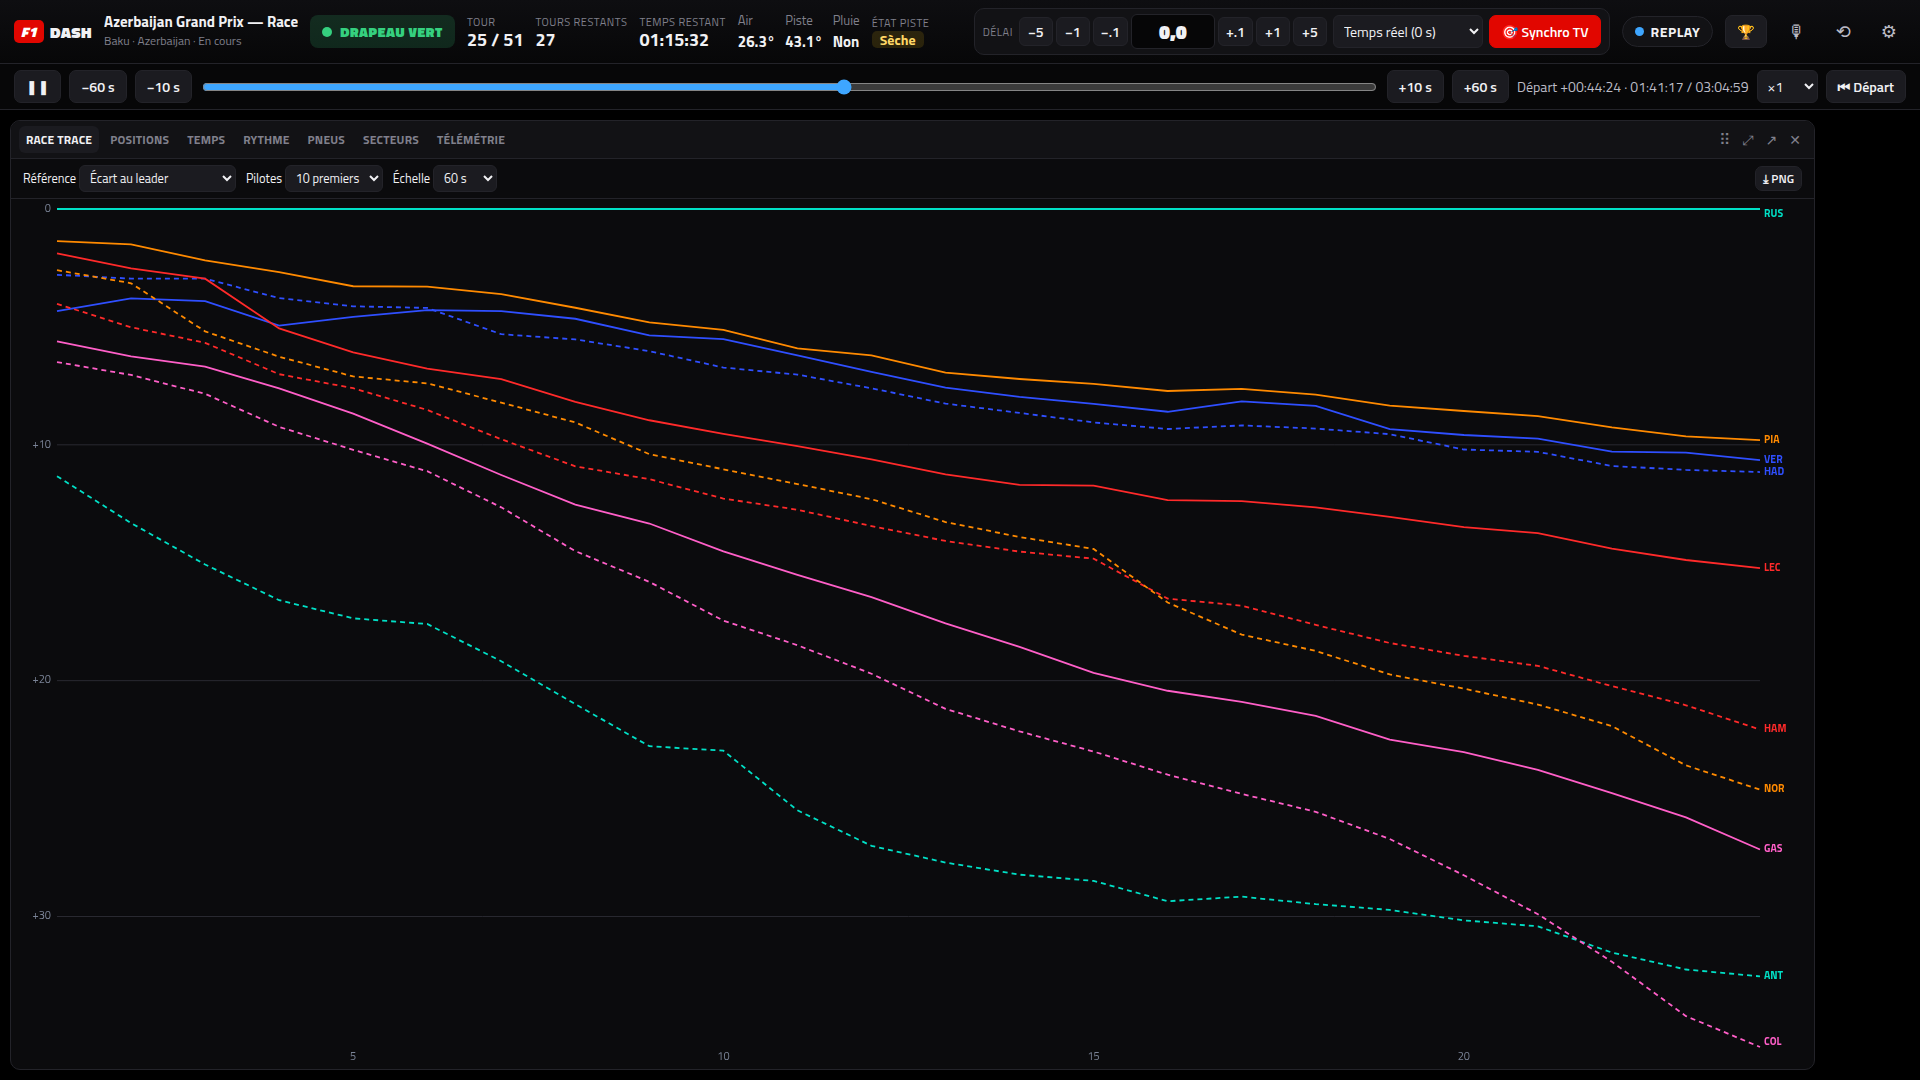
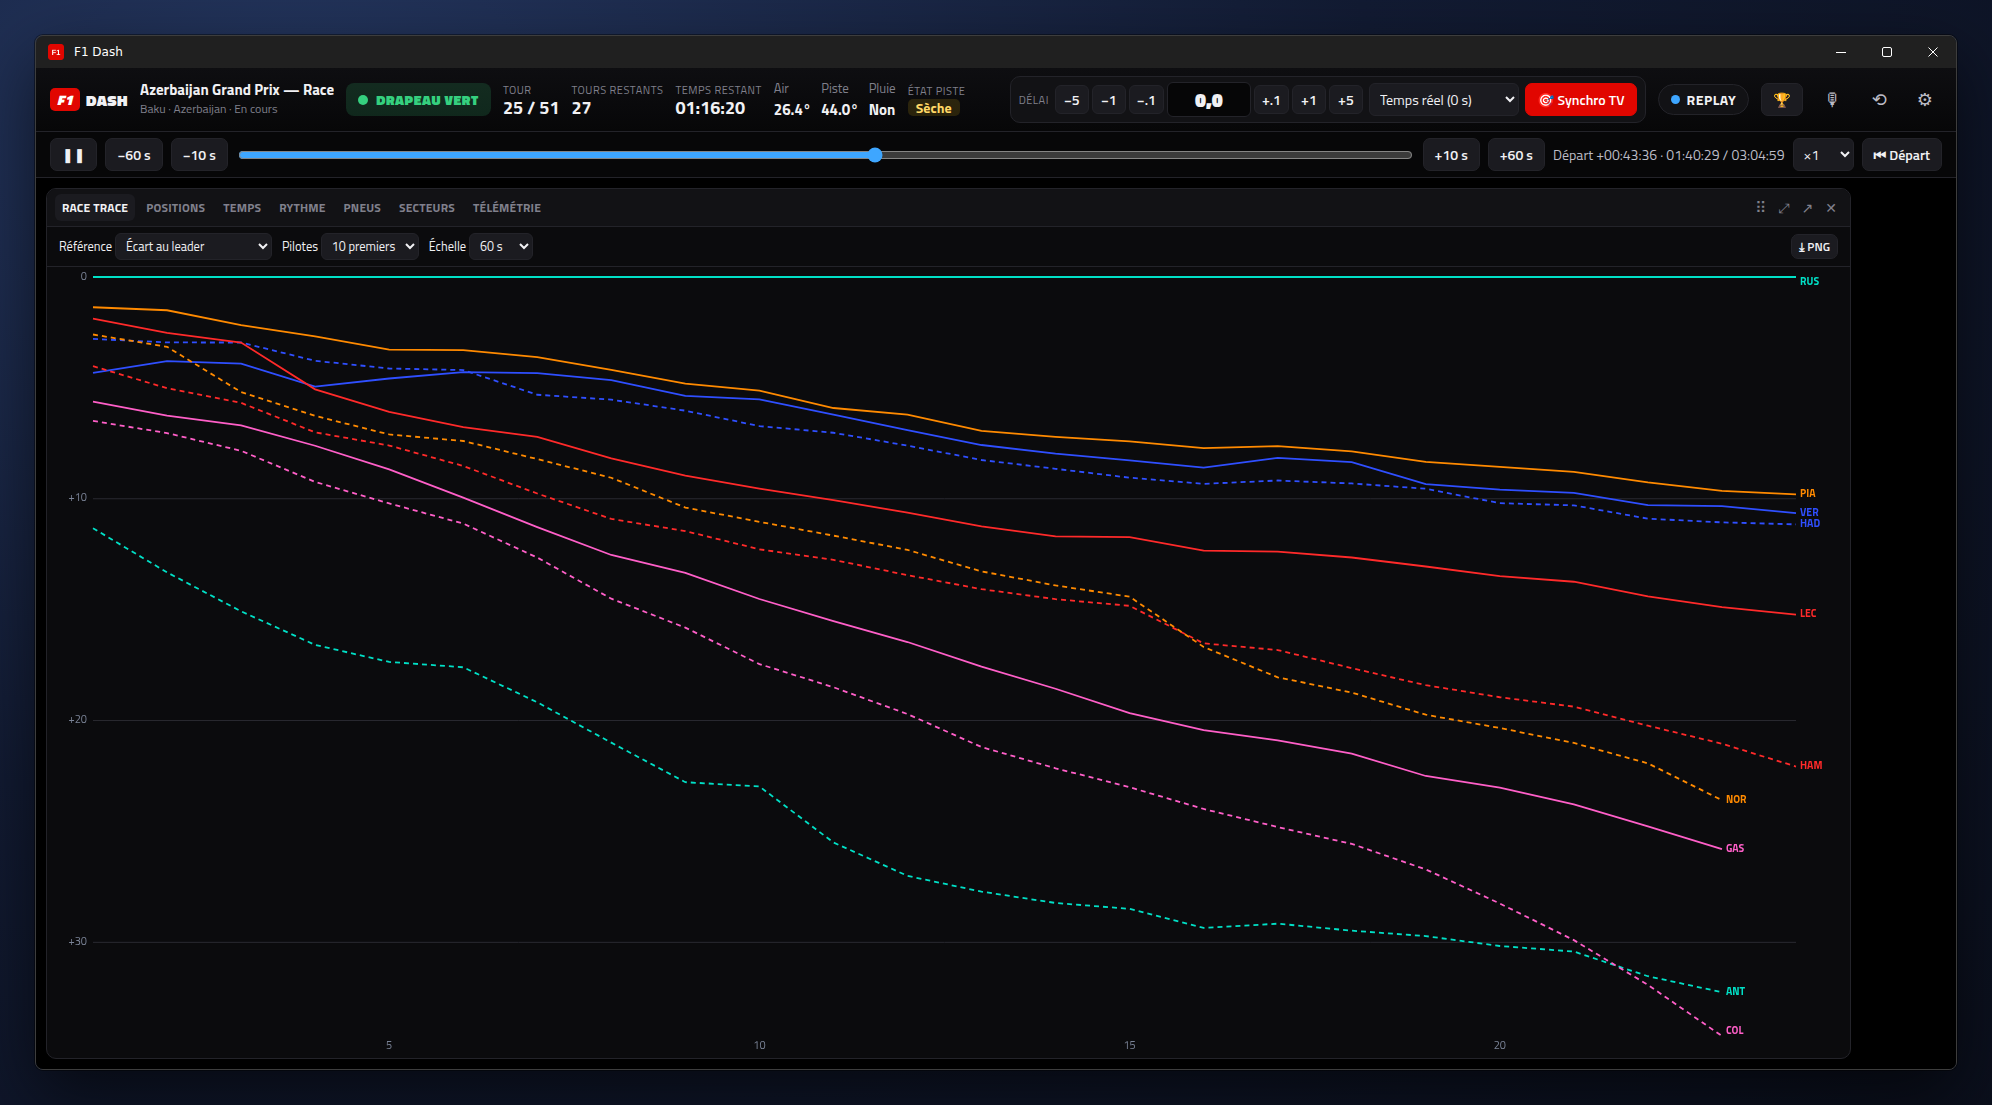
Captures d'écran façon PC et icône de l'application Windows
- Captures refaites dans une fenêtre Windows 11 (thème sombre), à la taille
  d'une fenêtre agrandie sur un écran Full HD, panneaux agrandis avec le
  bouton ⤢ de l'application.
- Application de bureau : vraie icône F1 Dash (desktop/icon.png) pour
  l'exécutable, la barre de titre et la barre des tâches, à la place de
  l'icône Electron par défaut.

Claude-Session: https://claude.ai/code/session_01WgEz3ZSgjwLPy4E2f6uwb7

diff --git a/README.md b/README.md
@@ -4,7 +4,7 @@ Dashboard **Formule 1 en direct** à lancer sur votre PC pour suivre chaque Gran
 
 ![Sessions](https://img.shields.io/badge/course%20%C2%B7%20qualifs%20%C2%B7%20essais-e10600) ![Node](https://img.shields.io/badge/Node.js-%E2%89%A518-339933)
 
-![F1 Dash pendant une course (replay du Grand Prix d'Azerbaïdjan 2026)](docs/screenshots/tableau-de-bord.png)
+![F1 Dash sur PC (application Windows) pendant une course — replay du Grand Prix d'Azerbaïdjan 2026](docs/screenshots/tableau-de-bord.png)
 
 ## 📸 Captures d'écran
 
